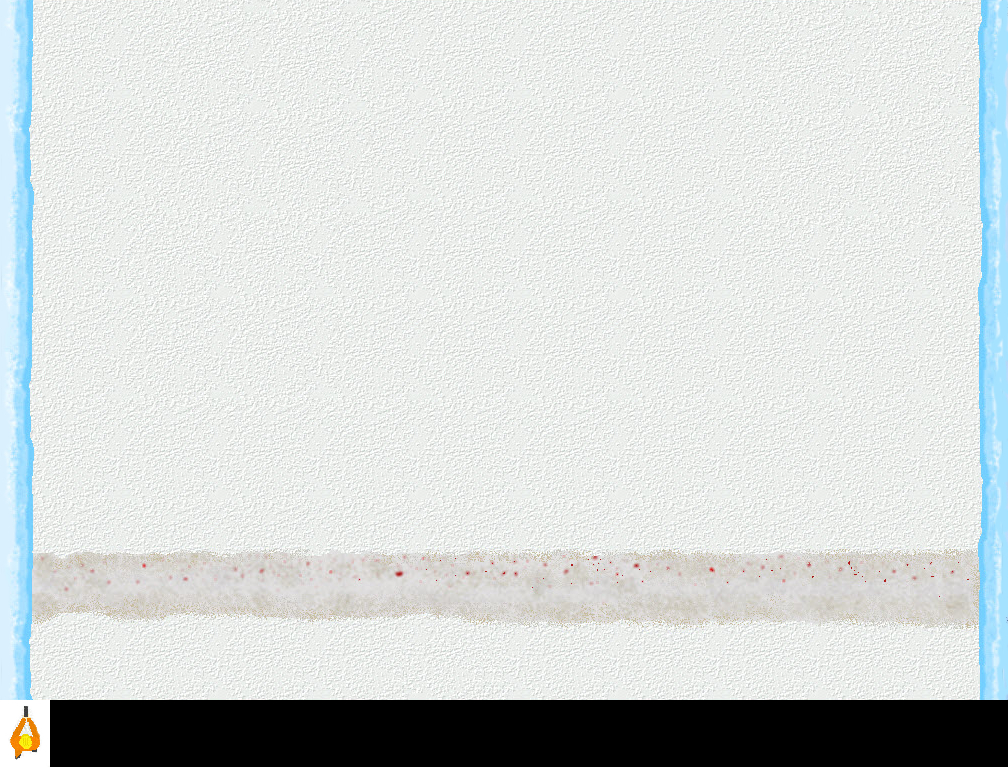
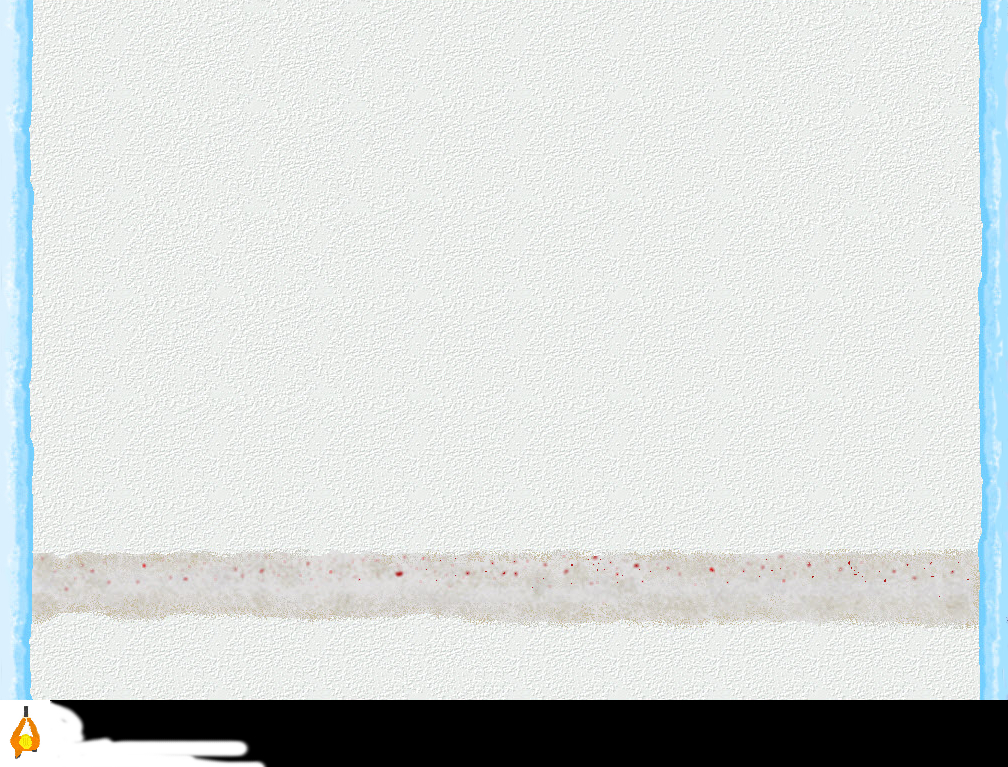
version 2 of mouse input and display of player

Changed region(s): [[0.0308, 0.8996, 0.2768, 1.0]]

diff --git a/penguinsrising.html b/penguinsrising.html
@@ -214,8 +214,6 @@ var world = new World(1);//Needs to be Global;
 console.log("User at Level:"+world.Level);
 var penguins = Penguins();
 var setup = function(){
-	//world.mouseX=0;
-	//world.mouseY=0;
 	canvas = document.getElementById("window");
 	canvas.addEventListener('mousemove', function(evt) {
         var mousePos = getMousePos(canvas, evt);
@@ -234,7 +232,7 @@ var setup = function(){
 		//can not be greater than 1008 width
 		ctx.drawImage(img, 0,0, 1008, 700, 0, 0, canvas.width, canvas.height);
 	}	
-	img.src = "landscape2.jpg";
+	img.src = "landscape2.png";
 	//var f = new Fort("test");
 	//console.log(f.Status);
 	setInterval(animate, frameRate)
@@ -249,10 +247,11 @@ var animate = function() {
 	ctx.fillText("Level:"+world.Level, canvas.width - 90, 25);
 	ctx.fillText(message, 10, 45);
 	ctx.save();
-	ctx.translate(canvas.width/2, canvas.height-400);
-	ctx.rotate((world.mouseX/world.mouseY)/Math.PI);
-	ctx.drawImage(img, 0, 700, 50, 66, 0, 0, 50, 66);
-	ctx.rotate(-(world.mouseX/world.mouseY)/Math.PI);
+	ctx.translate(canvas.width/2, canvas.height-60);
+	ctx.rotate(Math.atan2(world.mouseX-800, world.mouseY));
+	ctx.drawImage(img, 0, 702, 50, 65, -25, -33, 50, 66);
+	//this is not needed since we have a save state and restore call.
+	//ctx.rotate(-(world.mouseX/world.mouseY)/Math.PI);
 	ctx.restore();
 };
 function writeMessage(canvas, message) {
